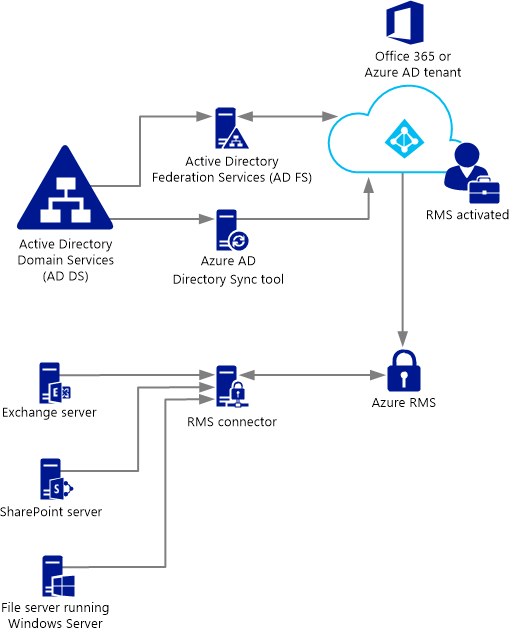
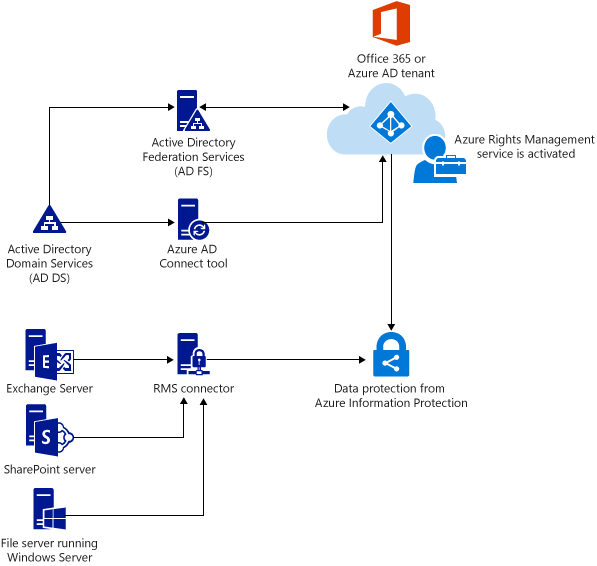
put back revised text for RMS connector and update diagram from Jess

Changed region(s): [[0.0, 0.0, 0.9981, 1.0], [0.8421, 0.1502, 0.8733, 0.1802]]

diff --git a/Azure-RMSDocs/deploy-use/deploy-rms-connector.md b/Azure-RMSDocs/deploy-use/deploy-rms-connector.md
@@ -5,7 +5,7 @@ title: Deploying the Azure Rights Management connector | Azure Information Prote
 description: Instructions to deploy the RMS connector, which provides the data protection service for existing on-premises deployments that use Exchange Server, SharePoint Server, or Windows Server and File Classification Infrastructure (FCI).
 author: cabailey
 manager: mbaldwin
-ms.date: 08/25/2016
+ms.date: 09/26/2016
 ms.topic: article
 ms.prod:
 ms.service: rights-management
@@ -28,30 +28,52 @@ ms.suite: ems
 
 >*Applies to: Azure Information Protection, Windows Server 2012, Windows Server 2012 R2*
 
-Use this information and instructions to deploy the Azure Rights Management (RMS) connector for Azure Information Protection. This connector provides data protection for existing on-premises deployments that use Microsoft Exchange Server, SharePoint Server, or file servers that run Windows Server and File Classification Infrastructure (FCI).
+Use this information to learn about the Azure Rights Management connector, and then how to successfully deploy it for your organization. This connector provides data protection for existing on-premises deployments that use Microsoft **Exchange Server**, **SharePoint Server**, or file servers that run Windows Server and **File Classification Infrastructure** (FCI).
 
 > [!TIP]
 > For a high-level example scenario with screenshots, see the [Automatically protecting files on file servers running Windows Server and File Classification Infrastructure](../understand-explore/what-admins-users-see.md#automatically-protecting-files-on-file-servers-running-windows-server-and-file-classification-infrastructure) section in the [Azure RMS in action](../understand-explore/what-admins-users-see.md) article.
 
 ## Overview of the Microsoft Rights Management connector
-The Microsoft Rights Management (RMS) connector lets you quickly enable existing on-premises servers to use their Information Rights Management (IRM) functionality with the Azure Rights Management service from Azure Information Protection. With this functionality, IT and users can easily protect Office documents, pictures, and emails both inside your organization and outside, without having to install additional infrastructure or establish trust relationships with other organizations. 
+The Microsoft Rights Management (RMS) connector lets you quickly enable existing on-premises servers to use their Information Rights Management (IRM) functionality with the cloud-based Microsoft Rights Management service (Azure RMS). With this functionality, IT and users can easily protect documents and pictures both inside your organization and outside, without having to install additional infrastructure or establish trust relationships with other organizations. 
 
-You can use this connector even if some of your users are connecting to online services, in a hybrid scenario. For example, some users' mailboxes use Exchange Online and some users' mailboxes use Exchange Server. After you install the RMS connector, all users can protect and consume emails and attachments by using the Azure Rights Management connector, and information protection works seamlessly between the two deployment configurations.
-
-The RMS connector is a small-footprint service that you install on-premises, on servers that run Windows Server 2012 R2, Windows Server 2012, or Windows Server 2008 R2. In addition to running the connector on physical computers, you can also run it on virtual machines, including Azure IaaS VMs. After you install and configure the connector, it acts as a communications interface (a relay) between the on-premises servers and the cloud service.
-
-If you manage your own tenant key for Azure Information Protection (the bring your own key, or BYOK scenario), the RMS connector and the on-premises servers that use it do not access the hardware security module (HSM) that contains your tenant key. This is because all cryptographic operations that use the tenant key are performed in the Azure Rights Management service, and not on-premises.
+The RMS connector is a small-footprint service that you install on-premises, on servers that run Windows Server 2012 R2, Windows Server 2012, or Windows Server 2008 R2. In addition to running the connector on physical computers, you can also run it on virtual machines, including Azure IaaS VMs. After you deploy the connector, it acts as a communications interface (a relay) between the on-premises servers and the cloud service, as shown in the following picture.
 
 ![RMS connector architecture overview](../media/RMS_connector.png)
 
-The RMS connector supports the following on-premises servers: Exchange Server, SharePoint Server, and file servers that run Windows Server and use File Classification Infrastructure to classify and apply policies to Office documents in a folder. If you want to protect all file types using File Classification Infrastructure, do not use the RMS connector, but instead, use the [RMS Protection cmdlets](https://msdn.microsoft.com/library/azure/mt433195.aspx).
+
+### On-premises servers supported
+
+The RMS connector supports the following on-premises servers: Exchange Server, SharePoint Server, and file servers that run Windows Server and use File Classification Infrastructure to classify and apply policies to Office documents in a folder. 
 
 > [!NOTE]
-> For supported versions of these on-premises servers, see [On-premises servers that support Azure RMS](..\get-started\requirements-servers.md).
+> If you want to protect all file types (not just Office documents) by using File Classification Infrastructure, do not use the RMS connector, but instead, use the [RMS Protection cmdlets](https://msdn.microsoft.com/library/azure/mt433195.aspx).
 
-Use the following information to help you plan for, install, and configure the RMS connector. You must then do some post installation configuration so that your servers can use the connector.
+For the versions of these on-premises servers that are supported by the RMS connector, see [On-premises servers that support Azure RMS](..\get-started\requirements-servers.md).
 
--   [Prerequisites for the RMS connector](deploy-rms-connector.md#prerequisites-for-the-rms-connector)
+
+### Support for hybrid scenarios
+
+You can use the RMS connector even if some of your users are connecting to online services, in a hybrid scenario. For example, some users' mailboxes use Exchange Online and some users' mailboxes use Exchange Server. After you install the RMS connector, all users can protect and consume emails and attachments by using Azure RMS, and information protection works seamlessly between the two deployment configurations.
+
+### Support for customer-managed keys (BYOK)
+
+If you manage your own tenant key for Azure RMS (the bring your own key, or BYOK scenario), the RMS connector and the on-premises servers that use it do not access the hardware security module (HSM) that contains your tenant key. This is because all cryptographic operations that use the tenant key are performed in Azure RMS, and not on-premises.
+
+If you want to learn more about this scenario where you manage your tenant key, see [Planning and implementing your Azure Rights Management tenant key](../plan-design\plan-implement-tenant-key.md).
+
+## Prerequisites for the RMS connector
+Before you install the RMS connector, make sure that the following requirements are in place.
+
+|Requirement|More information|
+|---------------|--------------------|
+|The Rights Management (RMS) service is activated|[Activating Azure Rights Management](activate-service.md)|
+|Directory synchronization between your on-premises Active Directory forests and Azure Active Directory|After RMS is activated, Azure Active Directory must be configured to work with the users and groups in your Active Directory database.<br /><br />**Important**: You must do this directory synchronization step for the RMS connector to work, even for a test network. Although you can use Office 365 and Azure Active Directory by using accounts that you manually create in Azure Active Directory, this connector requires that the accounts in Azure Active Directory are synchronized with Active Directory Domain Services; manual password synchronization is not sufficient.<br /><br />For more information, see the following resources:<br /><br />[Integrating your on-premises identities with Azure Active Directory](/active-directory/active-directory-aadconnect)<br /><br />[Hybrid Identity directory integration tools comparison](/active-directory/active-directory-hybrid-identity-design-considerations-tools-comparison)|
+|Optional but recommended:<br /><br />Enable federation between your on-premises Active Directory and Azure Active Directory|You can enable identity federation between your on-premises directory and Azure Active Directory. This configuration enables a more seamless user experience by using single sign-on to the RMS service. Without single sign on, users are prompted for their credentials before they can use rights-protected content.<br /><br />For instructions to configure federation by using Active Directory Federation Services (AD FS) between Active Directory Domain Services and Azure Active Directory, see the [Checklist: Use AD FS to implement and manage single sign-on](http://technet.microsoft.com/library/jj205462.aspx) in the Windows Server library.|
+|A minimum of two member computers on which to install the RMS connector:<br /><br />- A 64-bit physical or virtual computer running one of the following operating systems:  Windows Server 2012 R2,  Windows Server 2012, or Windows Server 2008 R2.<br /><br />- At least 1 GB of RAM.<br /><br />- A minimum of 64 GB of disk space.<br /><br />- At least one network interface.<br /><br />- Access to the Internet via a firewall (or web proxy) that does not require authentication.<br /><br />- Must be in a forest or domain that trusts other forests in the organization that contain installations of Exchange or SharePoint servers that you want to use with the RMS connector.|For fault tolerance and high availability, you must install the RMS connector on a minimum of two computers.<br /><br />**Tip**: If you are using Outlook Web Access or mobile devices that use Exchange ActiveSync IRM and it is critical that you maintain access to emails and attachments that are protected by Azure RMS, we recommend that you deploy a load-balanced group of connector servers to ensure high availability.<br /><br />You do not need dedicated servers to run the connector but you must install it on a separate computer from the servers that will use the connector.<br /><br />**Important**: Do not install the connector on a computer that runs Exchange Server, SharePoint Server, or a file server that is configured for file classification infrastructure if you want to use the functionality from these services with Azure RMS. Also, do not install this connector on a domain controller.|
+
+## Steps to deploy the RMS connector
+
+The connector does not automatically check all the [prerequistes](deploy-rms-connector.md#prerequisites-for-the-rms-connector) that it needs for a successful deployment, so make sure that these are in place before you start. The deployment requires you to install the connector, configure the connector, and then configure the servers that you want to use the connector. 
 
 -   **Step 1:**  [Installing the RMS connector](install-configure-rms-connector.md#installing-the-rms-connector)
 
@@ -76,16 +98,6 @@ Use the following information to help you plan for, install, and configure the R
     -   [Configuring a file server for File Classification Infrastructure to use the connector](configure-servers-rms-connector.md#configuring-a-file-server-for-file-classification-infrastructure-to-use-the-connector)
 
 
-## Prerequisites for the RMS connector
-Before you install the RMS connector, make sure that the following requirements are in place.
-
-|Requirement|More information|
-|---------------|--------------------|
-|The Rights Management (RMS) service is activated|[Activating Azure Rights Management](activate-service.md)|
-|Directory synchronization between your on-premises Active Directory forests and Azure Active Directory|After the Rights Management service is activated, Azure Active Directory must be configured to work with the users and groups in your Active Directory database.<br /><br />**Important**: You must do this directory synchronization step for the RMS connector to work, even for a test network. Although you can use Office 365 and Azure Active Directory by using accounts that you manually create in Azure Active Directory, this connector requires that the accounts in Azure Active Directory are synchronized with Active Directory Domain Services; manual password synchronization is not sufficient.<br /><br />For more information, see the following resources:<br /><br />[Integrating your on-premises identities with Azure Active Directory](/active-directory/active-directory-aadconnect)<br /><br />[Hybrid Identity directory integration tools comparison](/active-directory/active-directory-hybrid-identity-design-considerations-tools-comparison)|
-|Optional but recommended:<br /><br />Enable federation between your on-premises Active Directory and Azure Active Directory|You can enable identity federation between your on-premises directory and Azure Active Directory. This configuration enables a more seamless user experience by using single sign-on to the Azure Rights Management service. Without single sign on, users are prompted for their credentials before they can use rights-protected content.<br /><br />For instructions to configure federation by using Active Directory Federation Services (AD FS) between Active Directory Domain Services and Azure Active Directory, see the [Checklist: Use AD FS to implement and manage single sign-on](http://technet.microsoft.com/library/jj205462.aspx) in the Windows Server library.|
-|A minimum of two member computers on which to install the RMS connector:<br /><br />- A 64-bit physical or virtual computer running one of the following operating systems:  Windows Server 2012 R2,  Windows Server 2012, or Windows Server 2008 R2.<br /><br />- At least 1 GB of RAM.<br /><br />- A minimum of 64 GB of disk space.<br /><br />- At least one network interface.<br /><br />- Access to the Internet via a firewall (or web proxy) that does not require authentication.<br /><br />- Must be in a forest or domain that trusts other forests in the organization that contain installations of Exchange or SharePoint servers that you want to use with the RMS connector.|For fault tolerance and high availability, you must install the RMS connector on a minimum of two computers.<br /><br />**Tip**: If you are using Outlook Web Access or mobile devices that use Exchange ActiveSync IRM and it is critical that you maintain access to emails and attachments that are protected by Azure RMS, we recommend that you deploy a load-balanced group of connector servers to ensure high availability.<br /><br />You do not need dedicated servers to run the connector but you must install it on a separate computer from the servers that will use the connector.<br /><br />**Important**: Do not install the connector on a computer that runs Exchange Server, SharePoint Server, or a file server that is configured for file classification infrastructure if you want to use the functionality from these services with Azure Rights Management. Also, do not install this connector on a domain controller.|
-
 ## Next steps
 
-Go to [Installing and configuring the Azure Rights Management connector](install-configure-rms-connector.md).
+Go to Step 1: [Installing and configuring the Azure Rights Management connector](install-configure-rms-connector.md).
